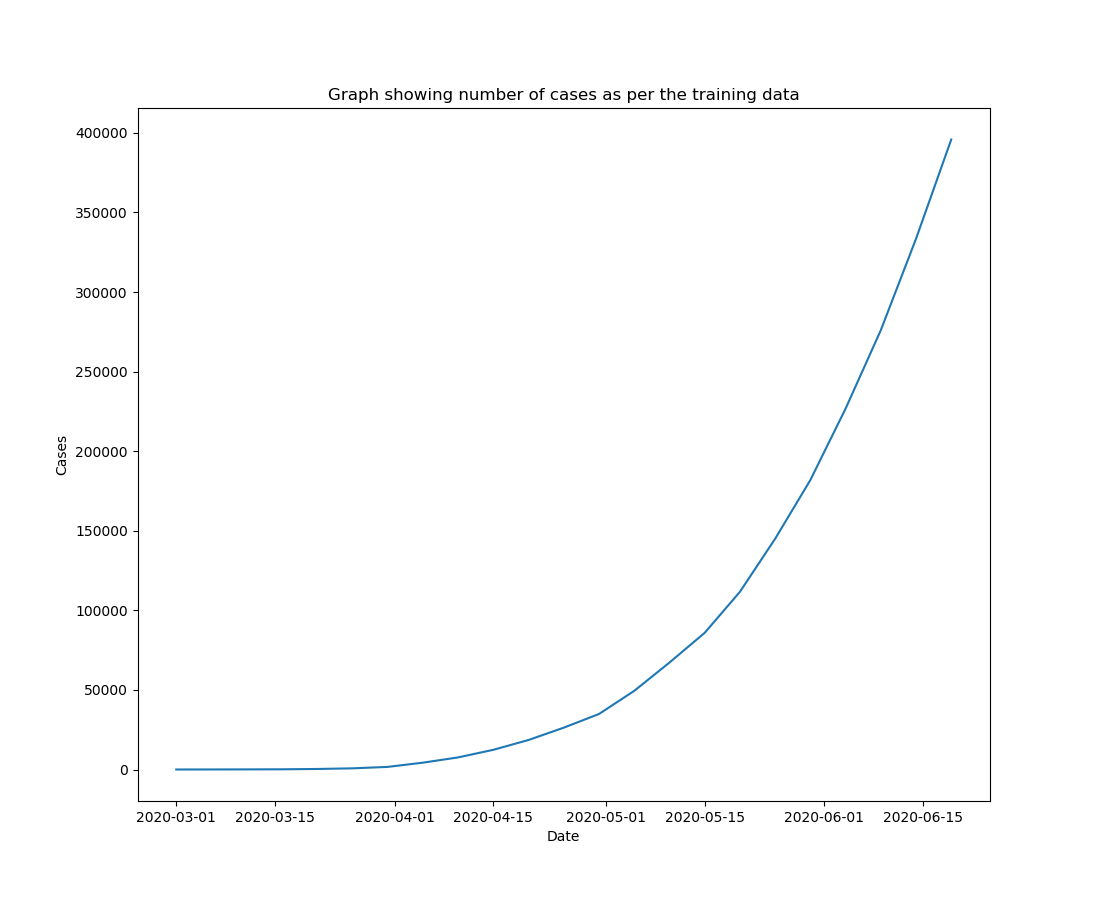
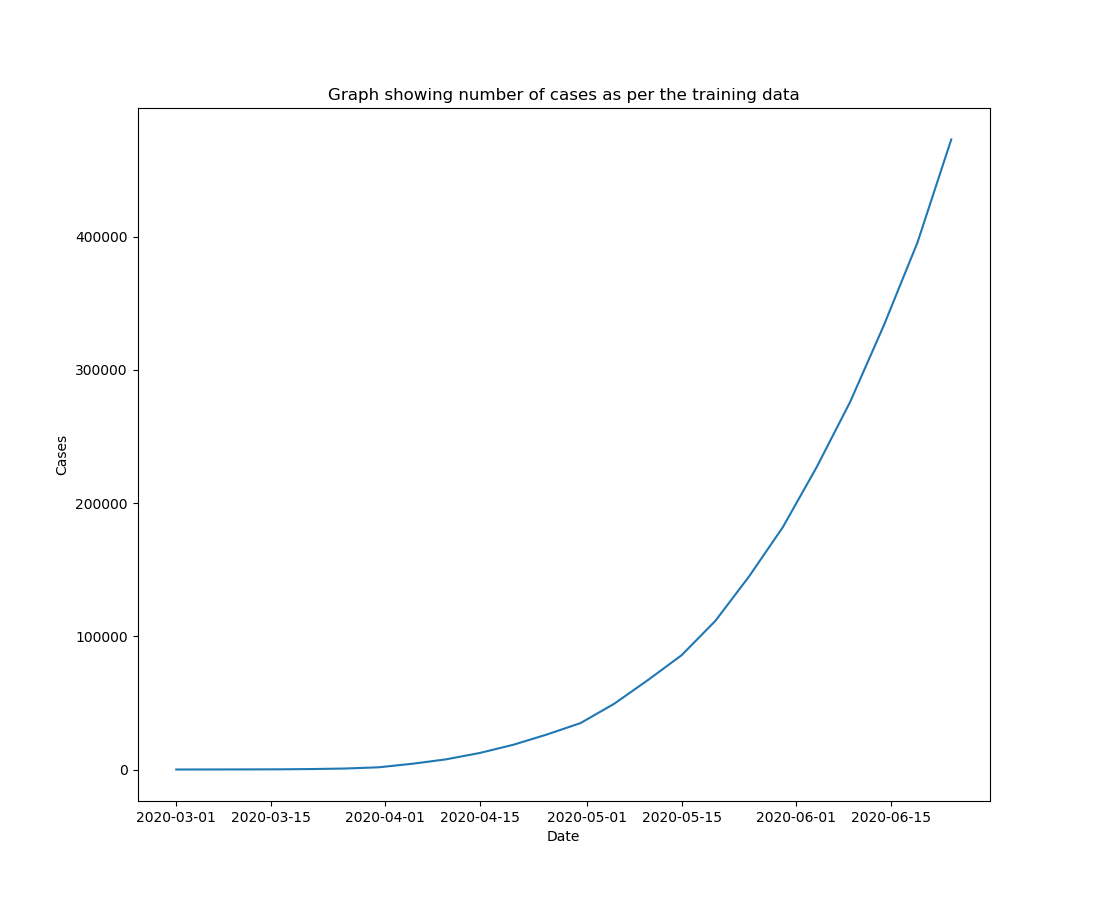
Added new data

diff --git a/CovidCases.py b/CovidCases.py
@@ -26,7 +26,7 @@ y_pred = lm.predict(X_train)
 plt.plot(X_train,y_pred,color='g',label='Linear Regression')
 
 
-polynomial_features= PolynomialFeatures(degree=3) #To convert X (date) to degree
+polynomial_features= PolynomialFeatures(degree=4) #To convert X (date) to degree
 x_poly = polynomial_features.fit_transform(X)
 poly = LinearRegression() #Object to fit / predict
 poly.fit(x_poly, y)
